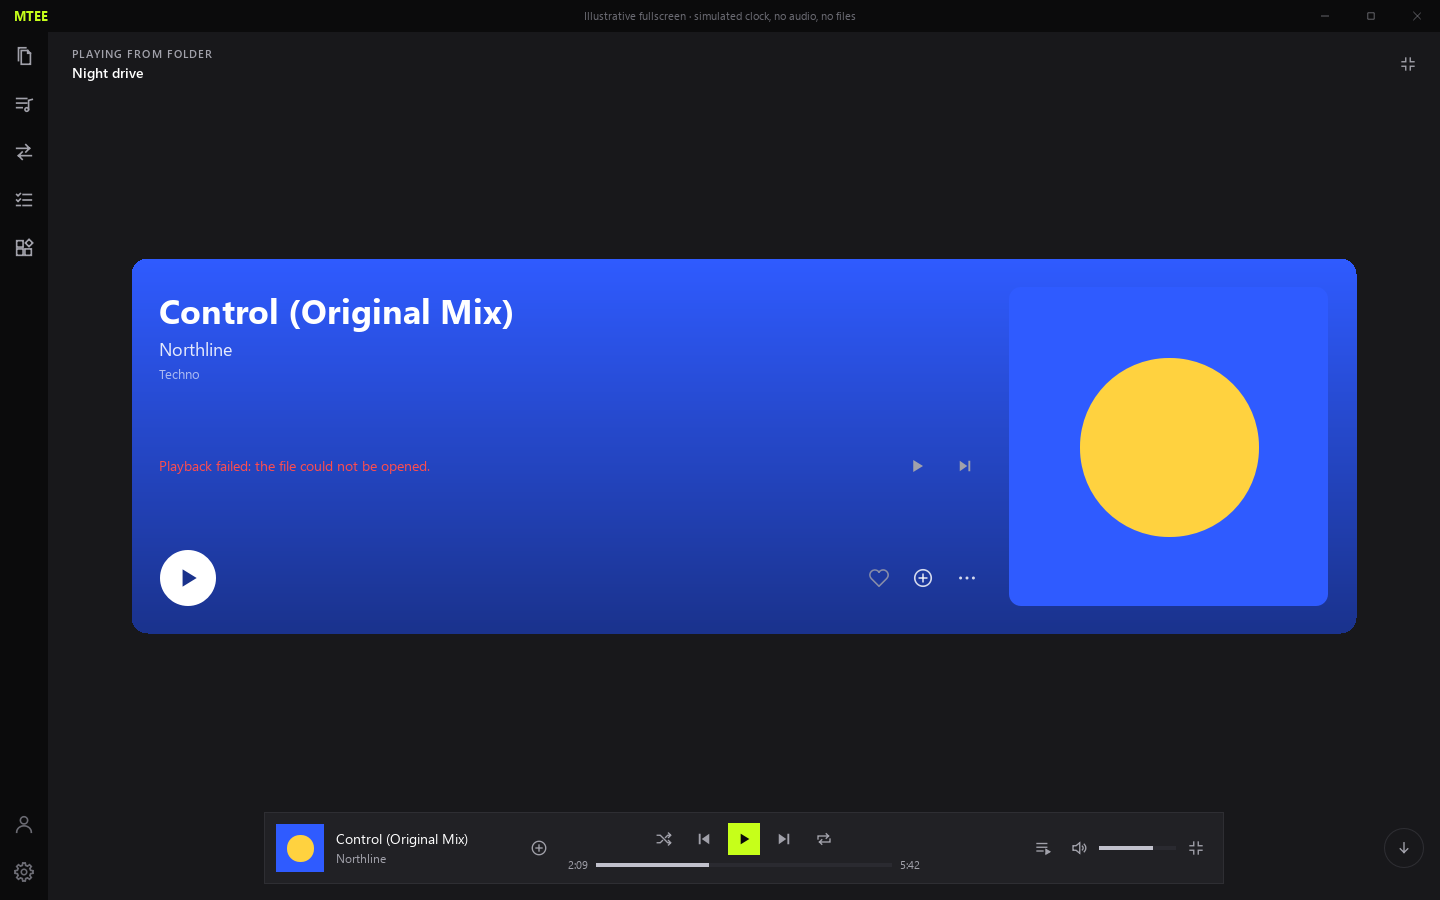
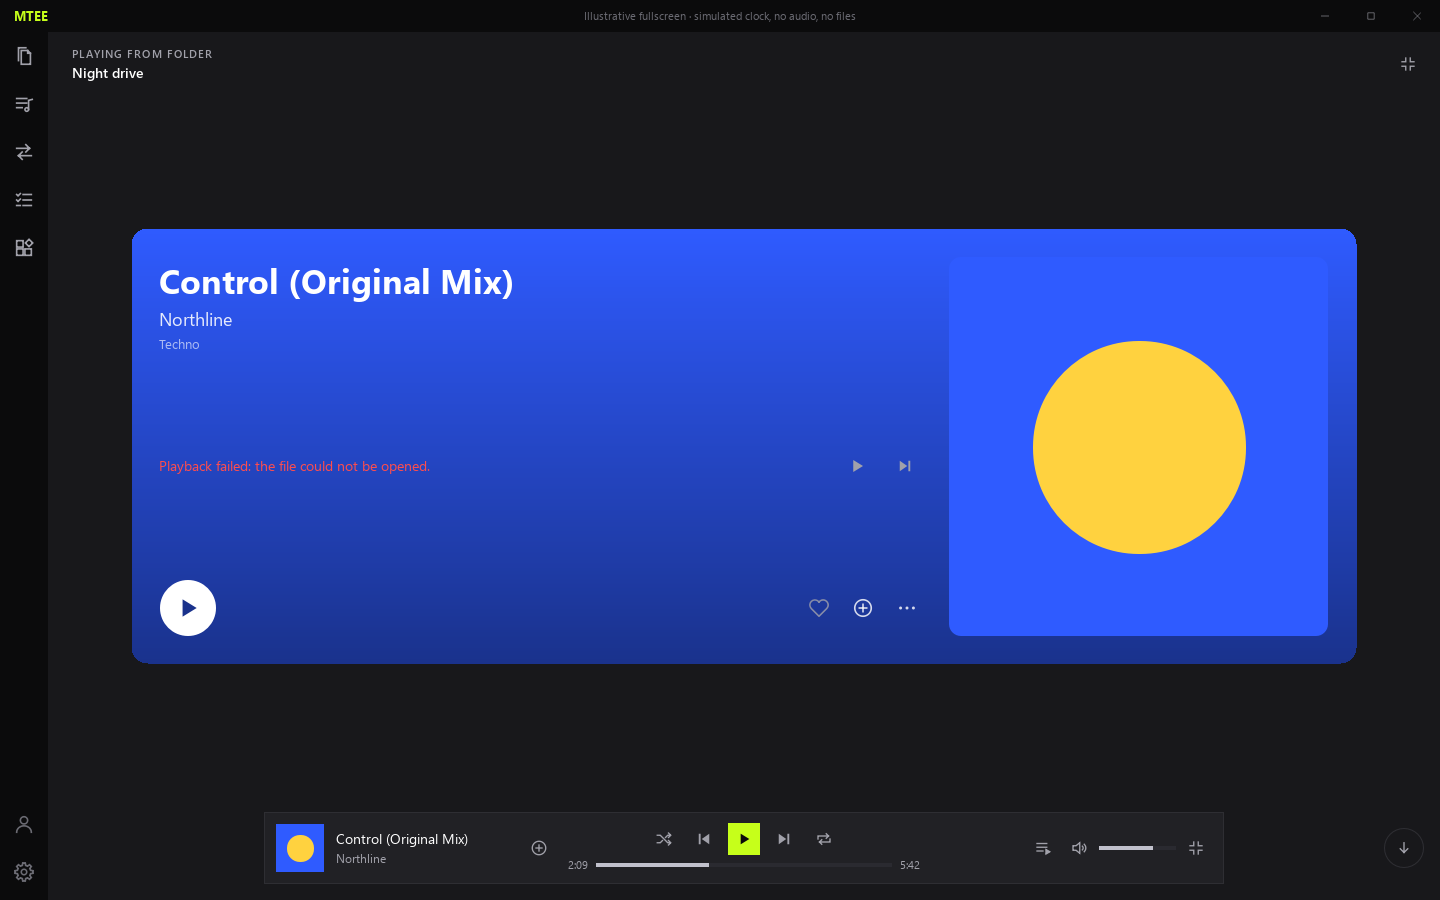
docs(ux): ajouter de la hauteur a la carte principale de la maquette 100.0
Demande de l'utilisateur apres la premiere maquette : une carte plus haute.

Changements : propriete de reglage cardExtra (60 px initiaux, curseur
Card extra height dans F2) repartie entre les deux ecarts de la colonne
gauche, plafonnee pour que la carte ne touche pas l'ile ; la pochette
carree grandit avec la carte. Captures regenerees, dossier de revue et
Decision Log du plan 100 mis a jour.

Controles effectues : captures hors ecran sans avertissement QML, rendu
verifie a 1440x900 et 880x600.

Limites : valeur de 60 px a confirmer en revue ; validation utilisateur
de la maquette toujours en attente.

Changed region(s): [[0.0938, 0.3733, 0.9688, 0.7467], [0.0938, 0.2489, 0.9375, 0.4044], [0.8438, 0.4044, 0.875, 0.5911]]

diff --git a/docs/ux/mockups/Fullscreen100Review.qml b/docs/ux/mockups/Fullscreen100Review.qml
@@ -34,6 +34,7 @@ ApplicationWindow {
         property real shadowOpacity: 0.05
         property int pageDuration: 350
         property int peek: 32
+        property int cardExtra: 60           // extra card height, shared between the two gaps
         property string playVariant: "A"     // A white, B black, C light accent
         property string p2Layout: "auto"     // auto, wide, narrow
         readonly property int cardRadius: 16
@@ -178,6 +179,10 @@ ApplicationWindow {
     readonly property real sideMargin: Math.max(48, viewW * 0.06)
     readonly property real cardW: Math.min(tune.cardMaxWidth, viewW - 2 * sideMargin)
     readonly property bool coverVisible: cardW >= tune.coverHideWidth
+    // The extra height is capped so the card never runs into the island.
+    readonly property real baseInner: identity.implicitHeight + tune.waveHeight + tune.playSize + 40
+    readonly property real extraHeight: Math.max(0, Math.min(tune.cardExtra,
+        viewH - reserve - tune.topBlock - 8 - (baseInner + 2 * tune.cardPadding)))
     readonly property real innerH: leftColumn.implicitHeight
     readonly property real cardH: innerH + 2 * tune.cardPadding
     readonly property real cardTop: tune.topBlock + Math.max(0, (viewH - reserve - tune.topBlock - cardH) / 2)
@@ -592,9 +597,10 @@ ApplicationWindow {
                     x: tune.cardPadding
                     y: tune.cardPadding
                     width: root.cardW - 2 * tune.cardPadding - (root.coverVisible ? root.innerH + 24 : 0)
-                    spacing: 20
+                    spacing: 20 + root.extraHeight / 2
 
                     Column {
+                        id: identity
                         width: parent.width
                         spacing: 4
 
@@ -1462,6 +1468,7 @@ ApplicationWindow {
                     onPicked: option => { const v = {"A 2/1": [2, 1], "B 3/2": [3, 2], "C 4/2": [4, 2]}[option]; tune.barWidth = v[0]; tune.barGap = v[1] } }
                 Slide { label: "Bar width (px)"; from: 1; to: 8; value: tune.barWidth; onMoved: v => tune.barWidth = v }
                 Slide { label: "Bar gap (px)"; from: 1; to: 8; value: tune.barGap; onMoved: v => tune.barGap = v }
+                Slide { label: "Card extra height"; from: 0; to: 200; value: tune.cardExtra; onMoved: v => tune.cardExtra = v }
                 Slide { label: "Wave height (px)"; from: 60; to: 200; value: tune.waveHeight; onMoved: v => tune.waveHeight = v }
                 Slide { label: "Gamma"; from: 1; to: 2.5; decimals: 1; value: tune.gamma; onMoved: v => tune.gamma = v }
                 Slide { label: "Fallback shadow"; from: 0; to: 0.5; decimals: 2; value: tune.shadowOpacity; onMoved: v => tune.shadowOpacity = v }
@@ -1483,6 +1490,7 @@ ApplicationWindow {
                     font.family: Theme.fontFamily
                     font.pixelSize: 11
                     text: "waveBarWidth/waveBarGap " + tune.barWidth + "/" + tune.barGap
+                        + " · cardExtra " + tune.cardExtra
                         + " · waveHeight " + tune.waveHeight
                         + " · waveGamma " + tune.gamma.toFixed(1)
                         + " · fsShadowOpacity " + tune.shadowOpacity.toFixed(2)

diff --git a/docs/ux/review-100-fullscreen.md b/docs/ux/review-100-fullscreen.md
@@ -19,7 +19,7 @@ Dans la fenêtre :
 - clic sur la waveform, avec ou sans déplacement, puis relâchement dans la zone ou hors de la zone à gauche et à droite : le scrub est simulé sur l'horloge fictive, sans son. La ligne de titre de la fenêtre indique l'état (maintien, son coupé par un mouvement rapide, reprise, au-delà de la fin, passage au suivant au relâchement) ;
 - cœur, `+`, `…` et les lignes de la file : menus et survols ;
 - île : précédent/suivant changent de piste fictive (fondu de couleur d'environ 1 s) ;
-- `F2` : panneau de réglage (largeur et écart des barres, hauteur, gamma, ombre, durée de transition, `fsPeek`, variante de Play, disposition de la page 2, état de la waveform, erreur de lecture, choix de piste). Il affiche les valeurs courantes pour pouvoir les recopier dans le Decision Log.
+- `F2` : panneau de réglage (largeur et écart des barres, hauteur de la waveform, hauteur supplémentaire de la carte, gamma, ombre, durée de transition, `fsPeek`, variante de Play, disposition de la page 2, état de la waveform, erreur de lecture, choix de piste). Il affiche les valeurs courantes pour pouvoir les recopier dans le Decision Log.
 
 `--audio` décode un fichier local avec le décodeur du projet et calcule, dans le script, un prototype min/max/RMS : la première piste de la maquette prend ses barres de ce fichier. `--covers` extrait la couleur vive de quelques images d'un dossier avec un prototype de l'algorithme d'accent et ajoute une piste par image (le rendu d'une pochette réelle exige la fenêtre native, pas `--capture`). Aucun de ces fichiers n'est copié dans le dépôt ; les captures commitées n'utilisent que des données générées et `--capture` refuse ces deux options.
 
@@ -72,7 +72,7 @@ Le développement fonctionnel de 100.1 à 100.7 attend ces décisions, conformé
 
 1. **Variante de barres** : A (2/1), B (3/2) ou C (4/2) — ou valeurs libres.
 2. **Gamma** : 1,0, 1,6, 2,2 ou autre valeur.
-3. **Hauteur de la waveform** : 128 px proposé.
+3. **Hauteur de la waveform** : 128 px proposé, et hauteur de la carte : 60 px ajoutés à la demande de l'utilisateur (curseur `Card extra height` de `F2`, plafonné pour que la carte ne touche pas l'île ; la pochette carrée grandit avec elle).
 4. **Couleurs grises** : lecture `#7C7C82` et survol `#B9B9BF` proposés.
 5. **Variante de Play** : A (blanc), B (noir) ou C (accent éclairci).
 6. **Ombre du repli** : intensité (5 % proposé) et son aspect.

diff --git a/Plans d'exécution/100-plein-ecran-waveform.md b/Plans d'exécution/100-plein-ecran-waveform.md
@@ -676,6 +676,8 @@ Message multiligne via une here-string PowerShell non interpolée et `git commit
 
 2026-10-01 — Sonnet 5.5 : jalon 100.0 exécuté sur le plan 100 tel quel. Choix de maquette (non produits par l'utilisateur, à valider en revue) : la hauteur de la carte découle de son contenu et la pochette en prend la hauteur intérieure ; la waveform affichée par défaut prend les barres B 3/2 et le gamma 1,6 ; les champs candidats de Track details sont marqués d'un astérisque ; la page 2 étroite place Artiste et Track details sur une rangée de 180 px ; l'île réserve 76 px de chaque côté pour la flèche du bas. Le panneau `F2` et les cartes de comparaison `waveform-variants` et `play-variants` servent à la revue et ne seront pas portés dans l'application.
 
+2026-10-01 — Utilisateur, après la maquette 100.0 : « ajoute de la hauteur à la carte ». La maquette ajoute 60 px (valeur initiale, réglable par `Card extra height` dans `F2`), répartis entre les écarts de la colonne de gauche et plafonnés pour ne pas toucher l'île ; la pochette carrée en prend la hauteur intérieure. La valeur définitive reste à fixer en revue (`fsCardExtra` à ajouter à `Theme.qml`).
+
 ## Outcomes & Retrospective
 
 Préparation et jalon 100.0 (maquette) : ce document transcrit les décisions de l'utilisateur, décrit les contrats, les fichiers à créer ou modifier, huit jalons, les tests et une matrice de recette. Aucune fonctionnalité de l'application n'est implémentée et aucun build n'est réalisé. Le jalon 100.0 a produit la maquette, quinze captures et le dossier de revue ; la validation de l'utilisateur est en attente et bloque 100.1 à 100.7. Limites observées : maquette sans son, horloge simulée, scrub et seuils non éprouvés à la souris réelle ni à l'écoute, `--audio` et `--covers` essayés seulement sur des fichiers synthétiques, pas sur la collection de l'utilisateur.
